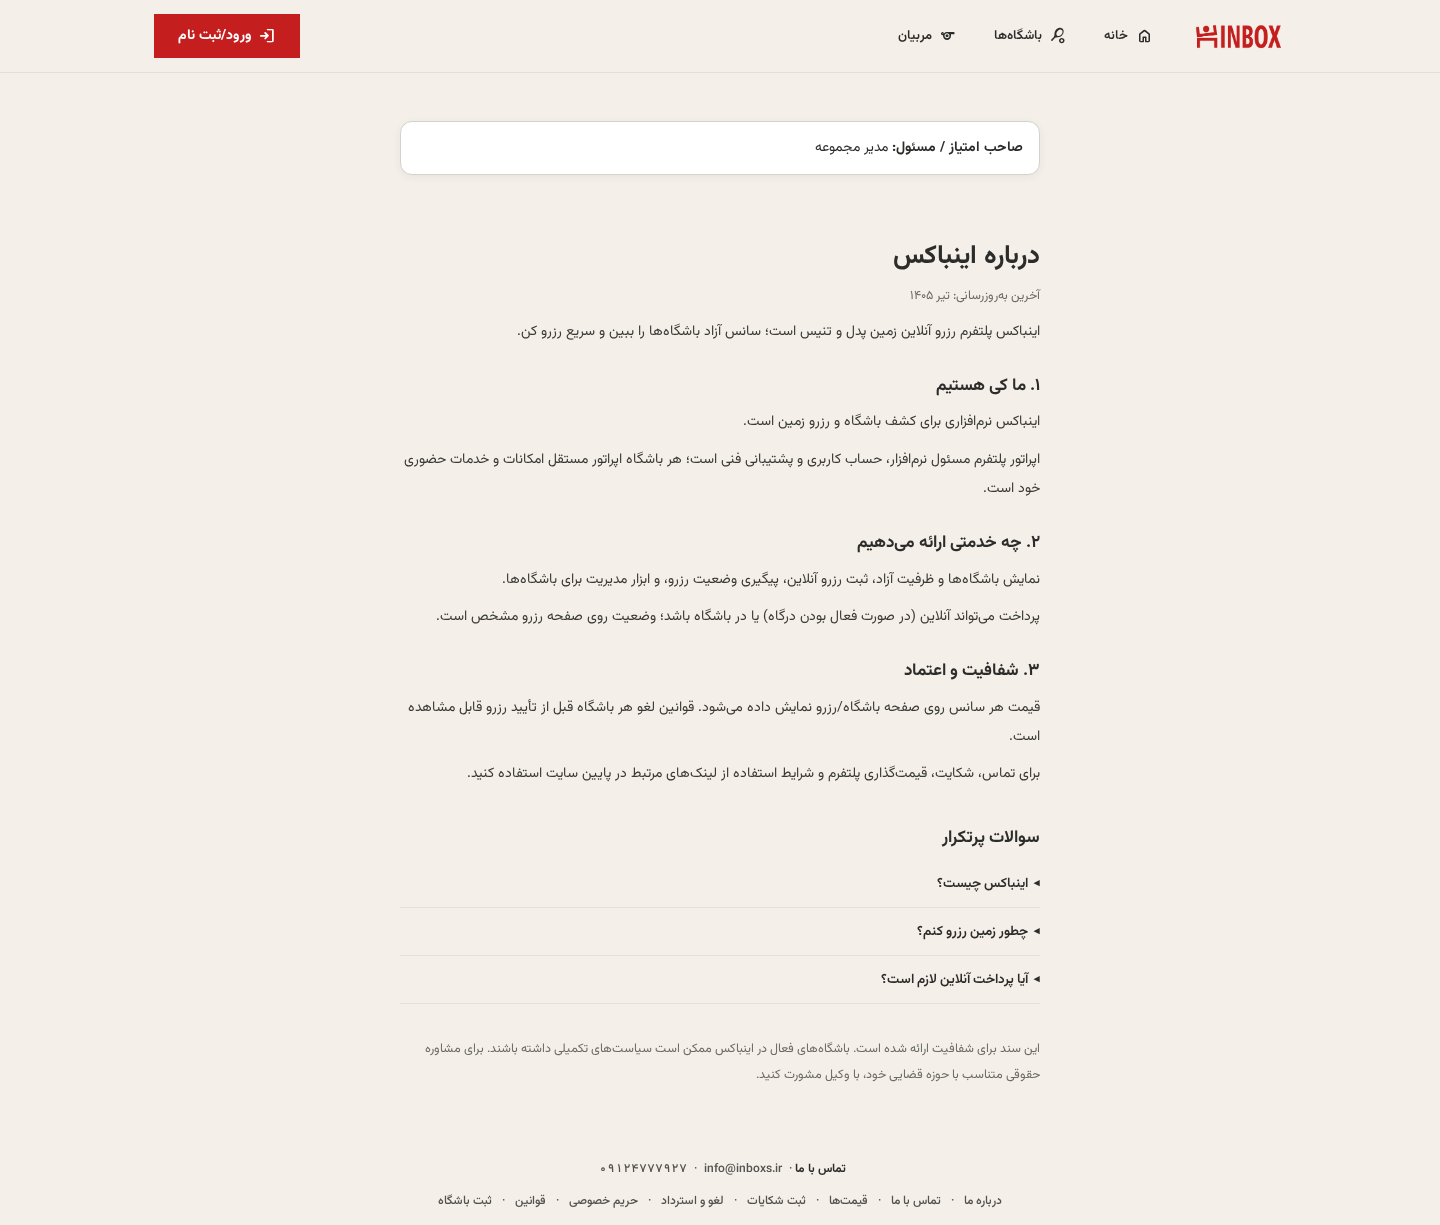
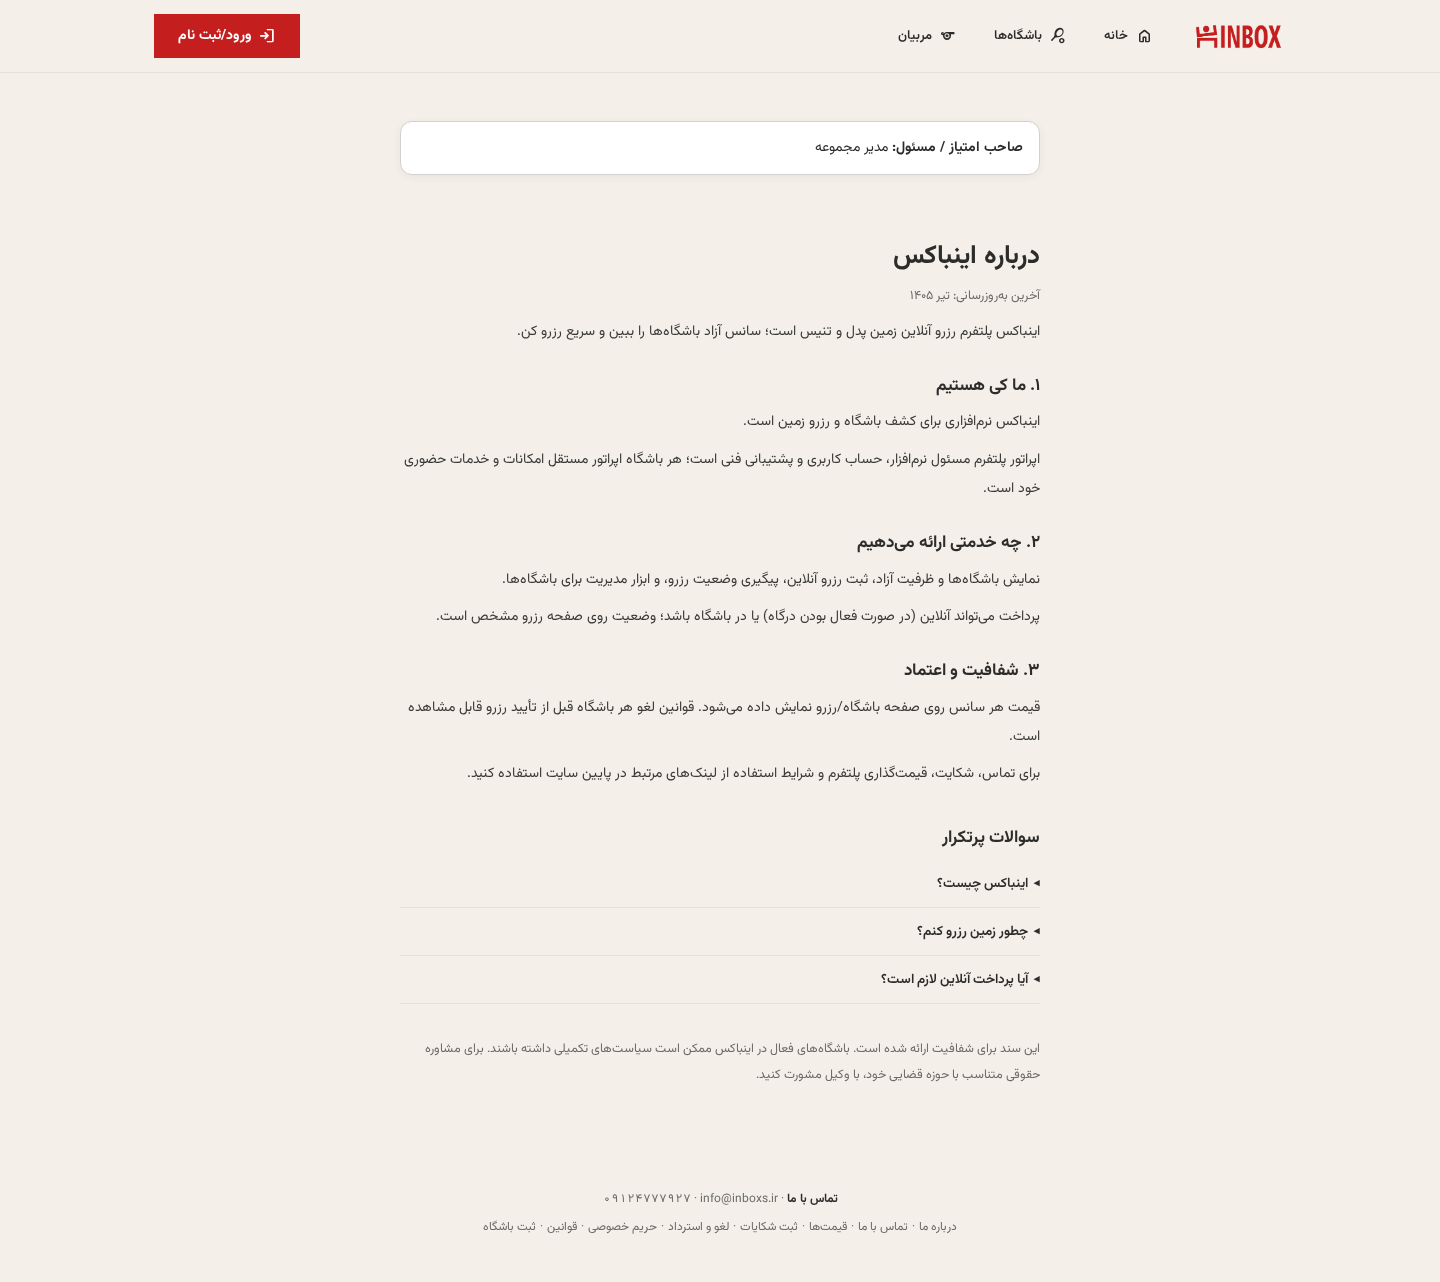
fidelity(global footer): SoT .rfoot — 12px gray, tight · separators, line-height 2.4

diff --git a/app/assets/css/main.css b/app/assets/css/main.css
@@ -4801,3 +4801,15 @@
 .owner-finance-page .canva-finance-chart { background:transparent }
 .owner-finance-page .canva-promo-badge-hero { inset:auto auto 12px 10px !important; background:#c41e1e; padding:4px 10px; display:flex; flex-direction:row-reverse; gap:4px; align-items:center }
 .owner-finance-page .canva-promo-badge-hero > * { color:#fff !important; font-size:10px !important; font-weight:700; line-height:1.4 }
+
+/* global footer — SoT .rfoot (12px, #6b6b67, line-height 2.4, tight "·" separators) */
+@media (min-width: 431px) {
+  .canva-public-footer { font-size:12px !important; font-weight:400; color:#6b6b67; line-height:2.4; padding-top:24px; padding-bottom:40px !important }
+  .canva-public-footer p { margin-bottom:0 }
+  .canva-public-footer nav, .canva-public-footer nav * { font-size:12px !important; font-weight:400 !important; color:#6b6b67; gap:0 4px !important; column-gap:4px !important }
+  .canva-public-footer nav a:hover { color:#c41e1e }
+  .canva-public-footer > p .font-bold { color:#2c2c2a }
+  .canva-public-footer a { padding-inline:0 !important }
+  .canva-public-footer > div:last-child { color:#6b6b67; font-weight:400 }
+  .canva-public-footer > div.mb-2 { margin-bottom:0 }
+}
